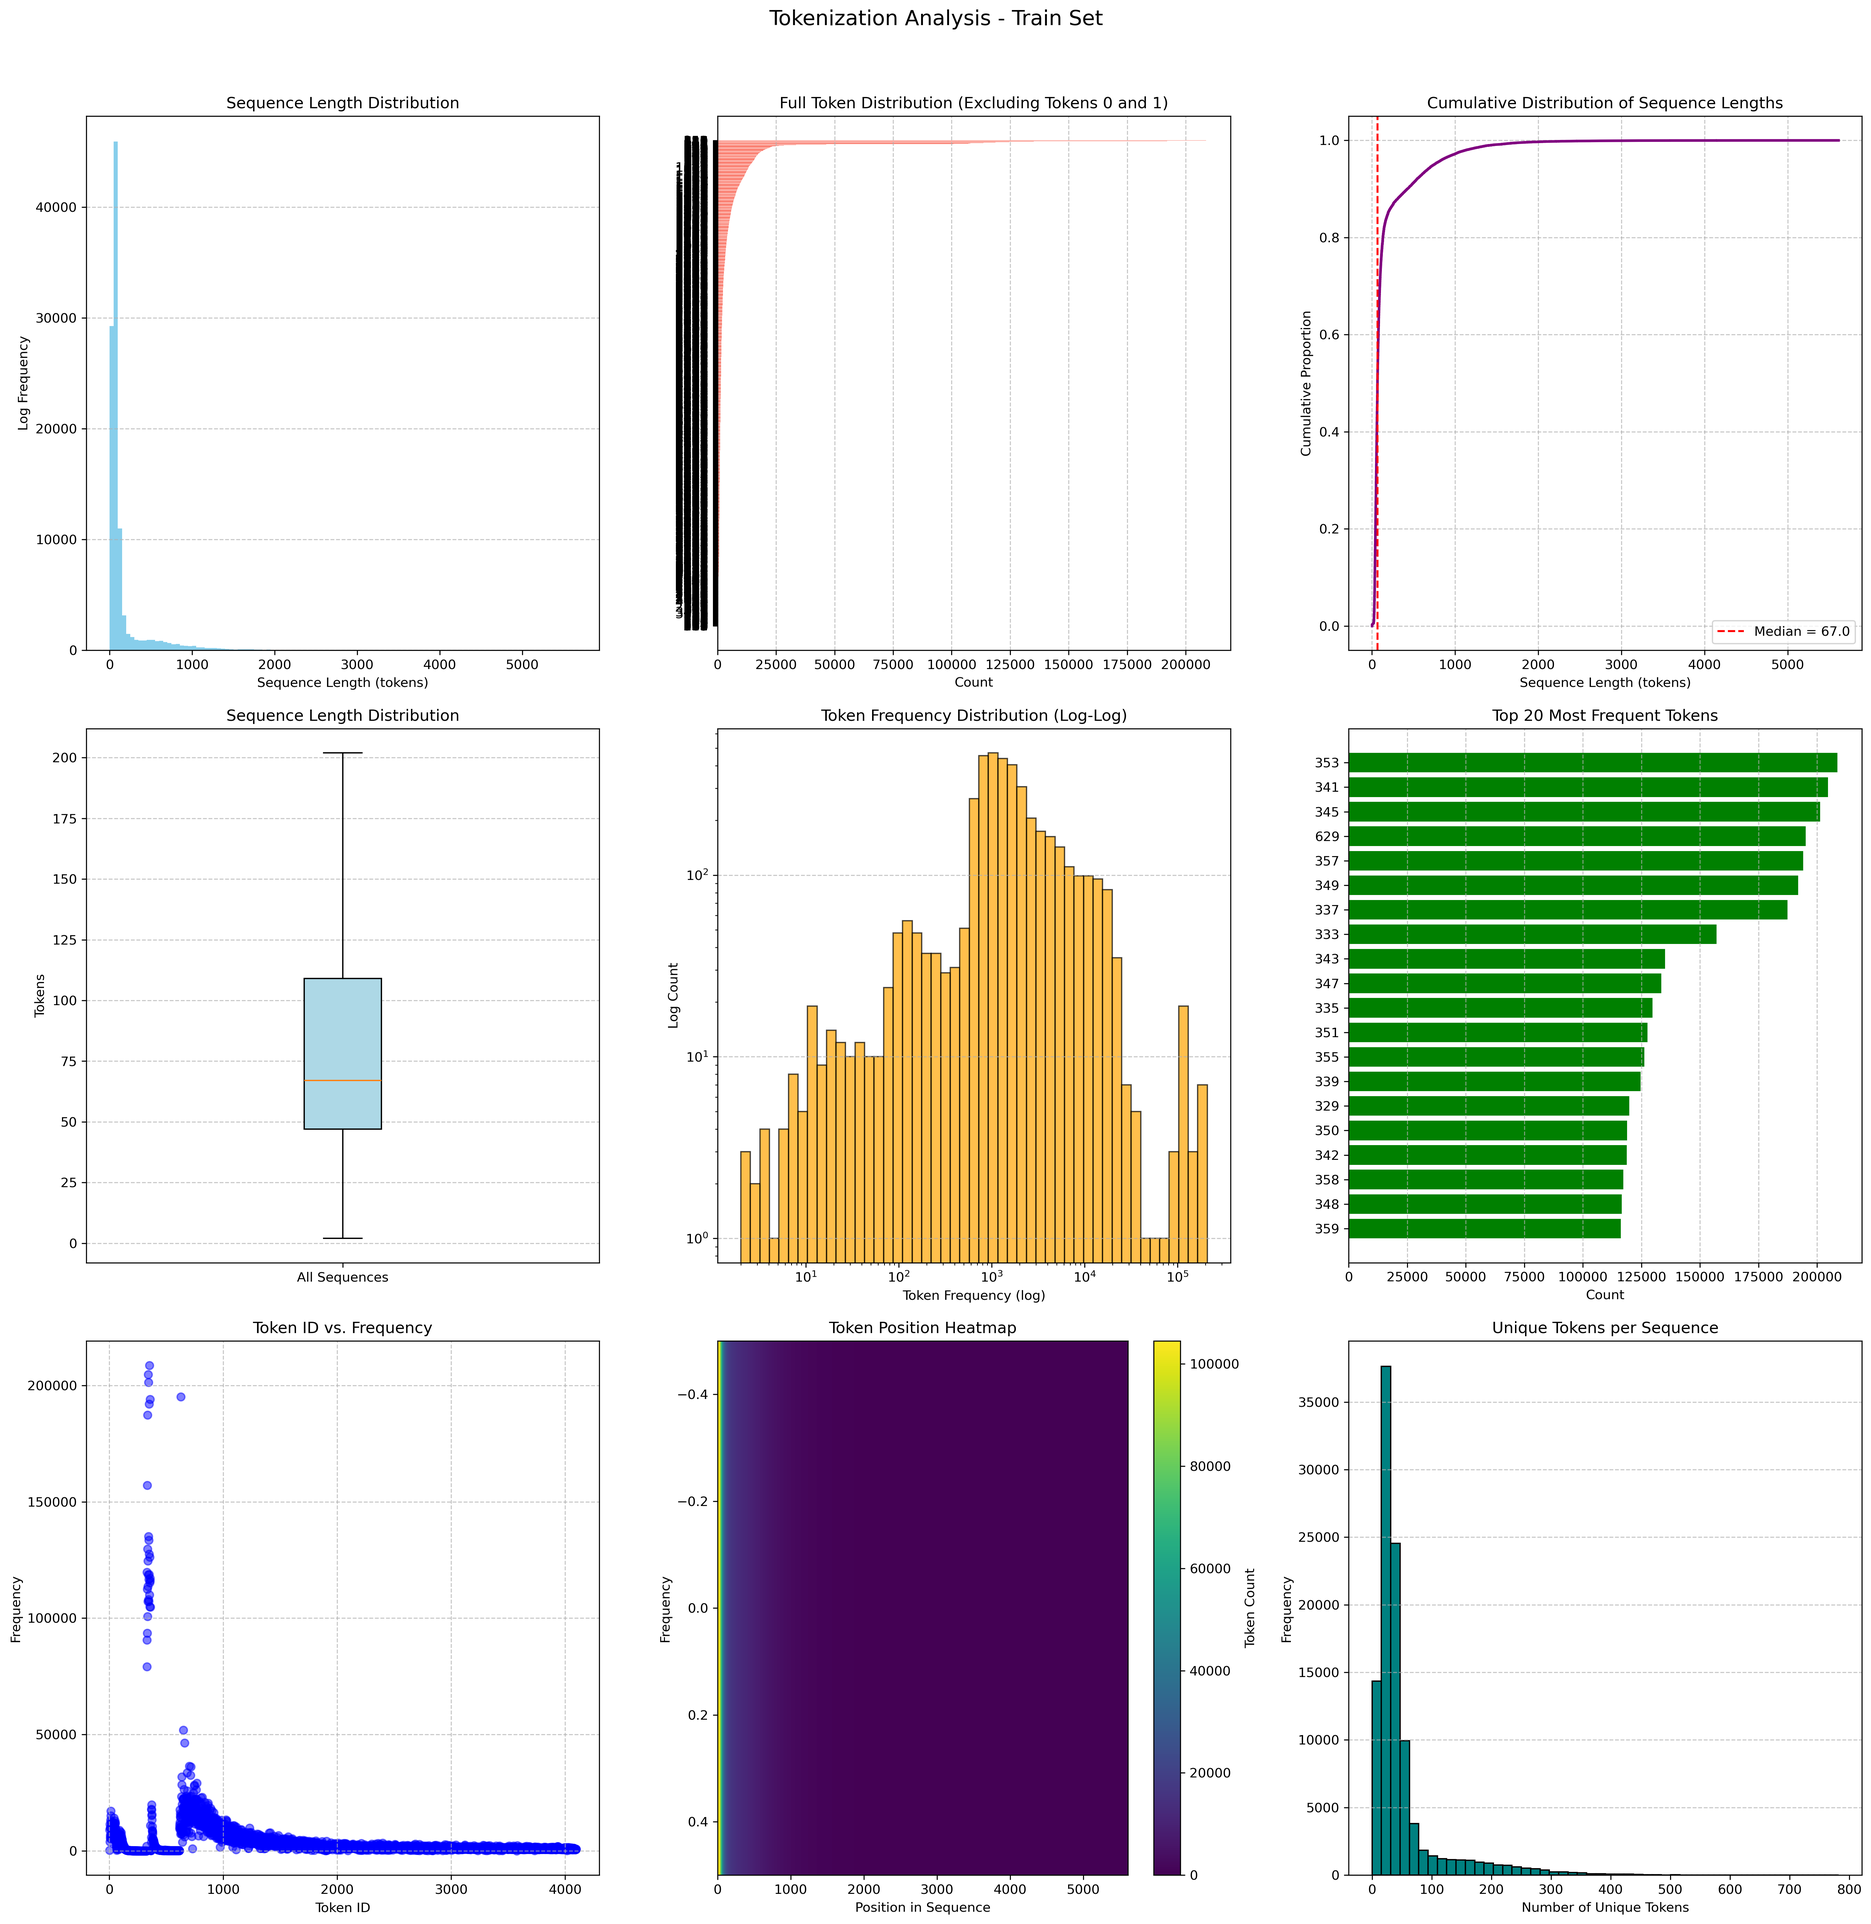
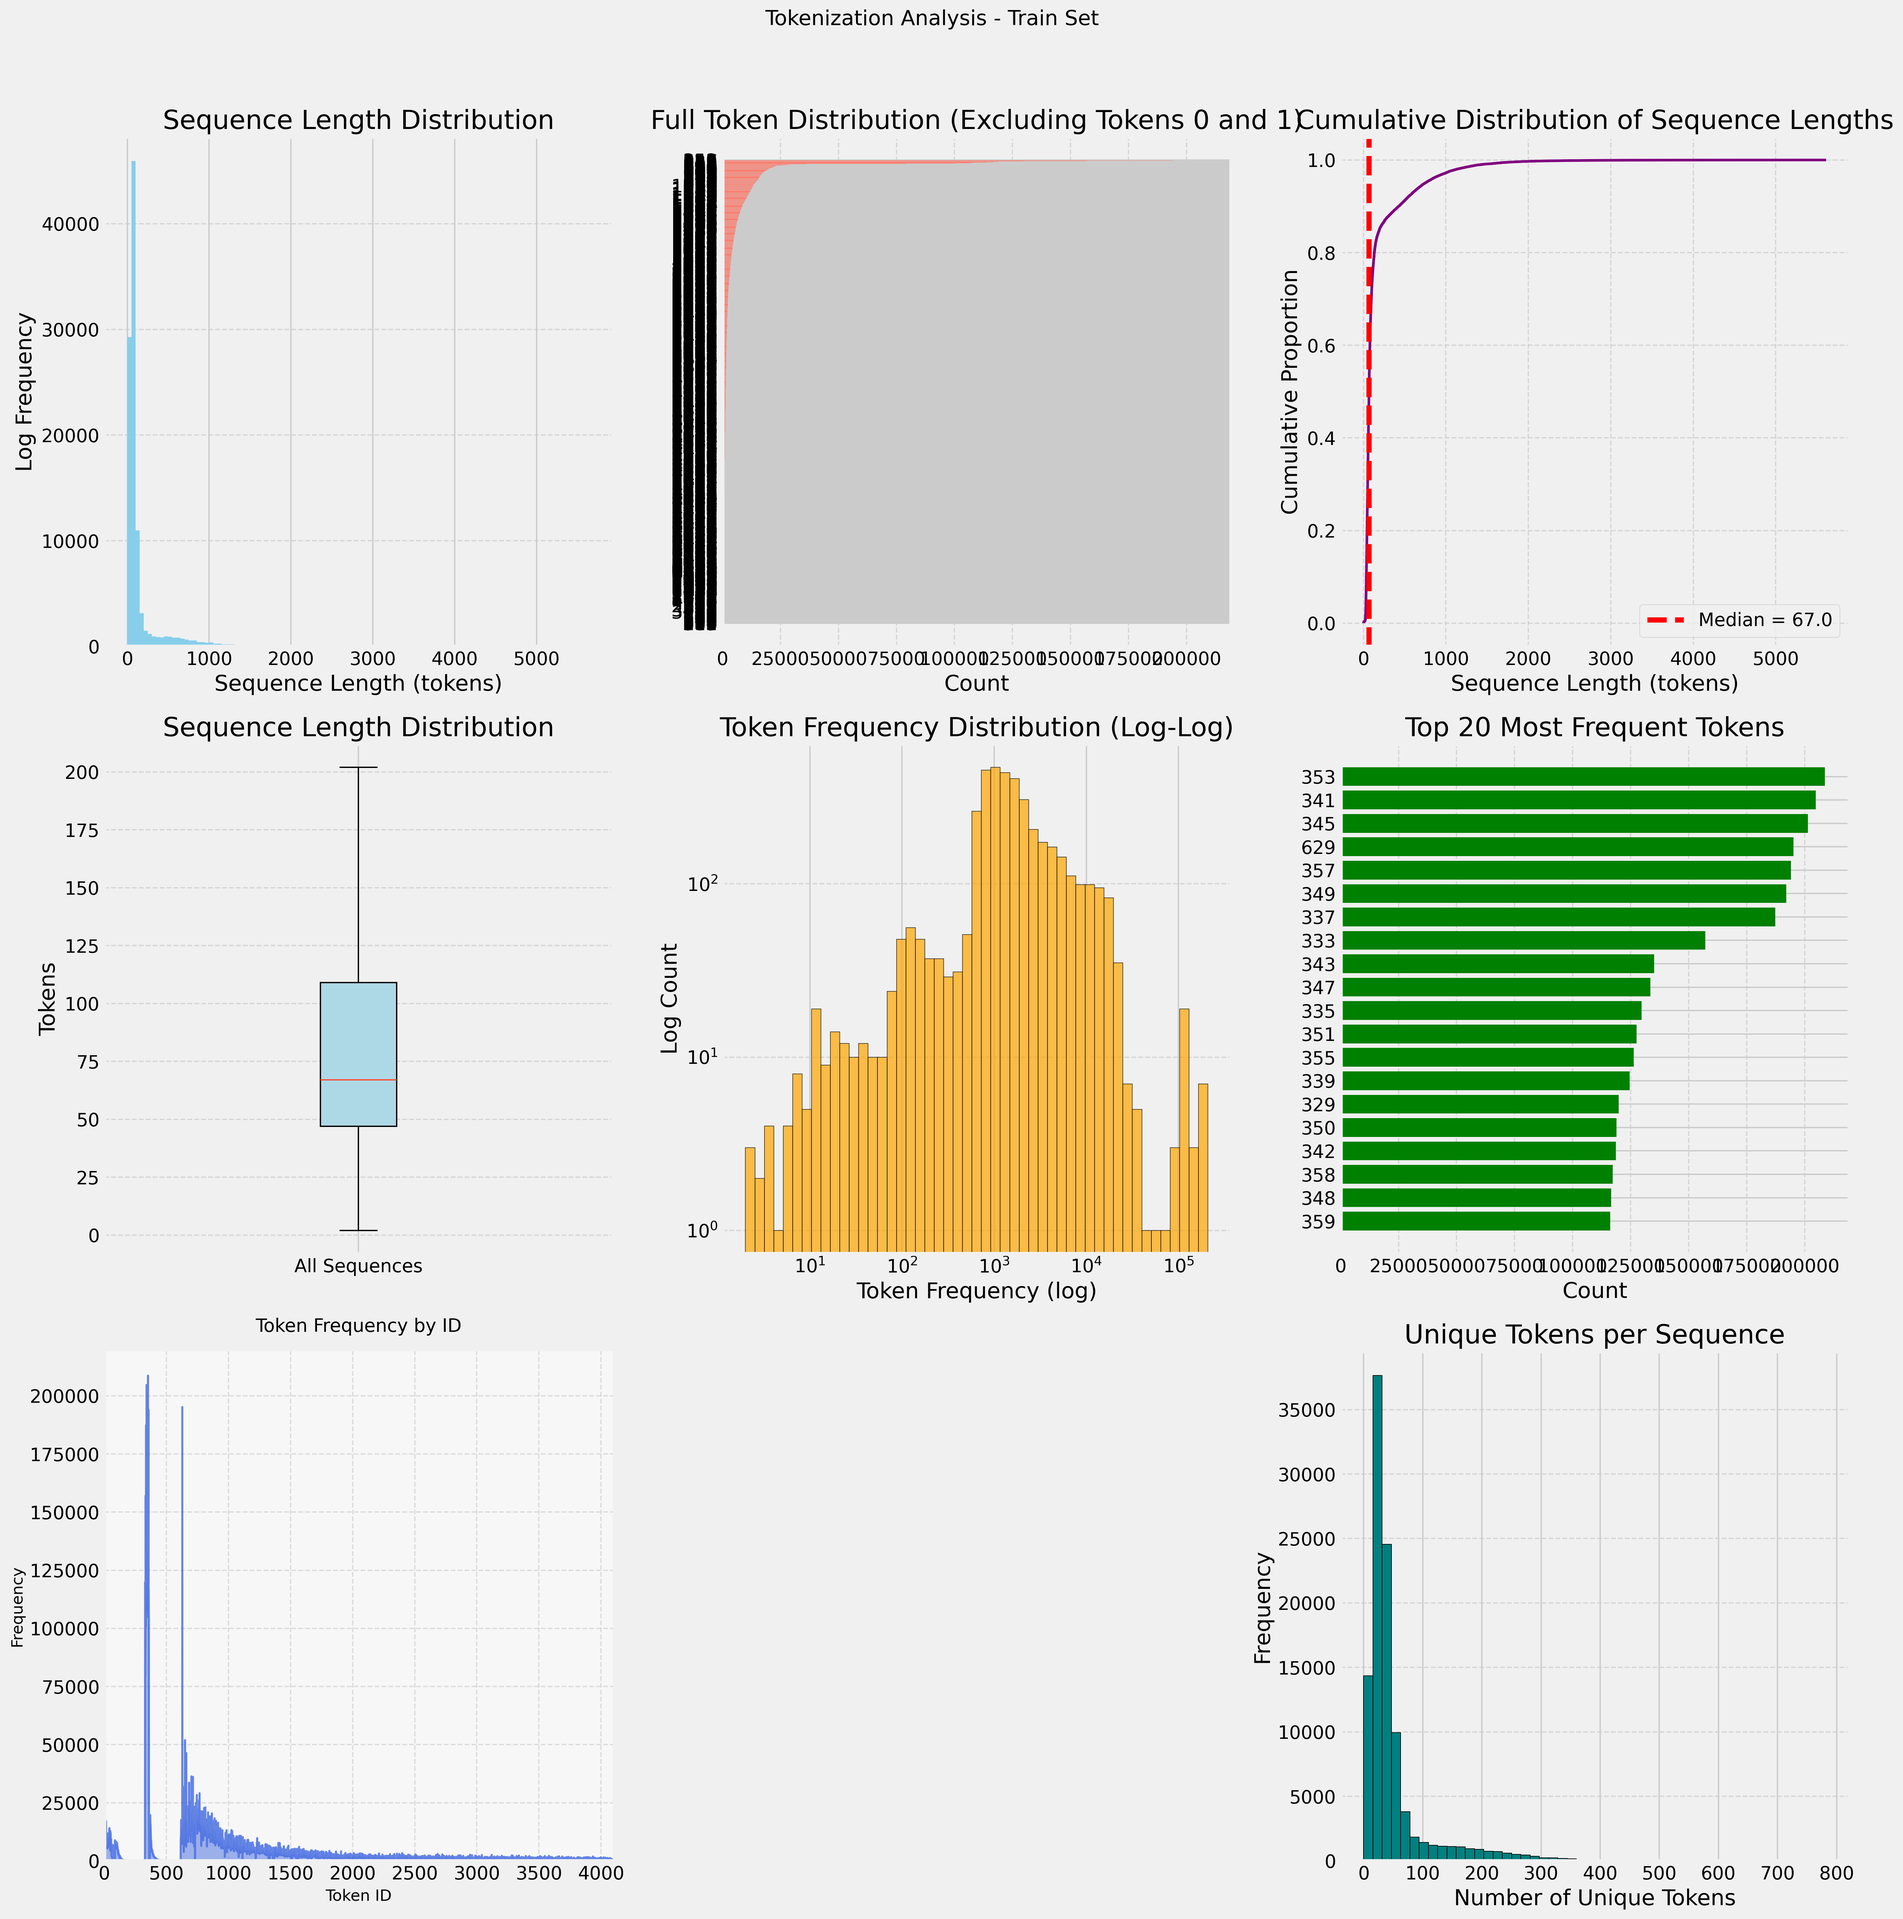
finished :)

diff --git a/CUPY/models/utils/tokenize_data_fast.py b/CUPY/models/utils/tokenize_data_fast.py
@@ -9,6 +9,9 @@ from icecream import ic
 from tabulate import tabulate
 import matplotlib.pyplot as plt
 import os
+import pandas as pd
+import matplotlib.ticker as ticker  # Import ticker for AutoMinorLocator
+plt.style.use('fivethirtyeight')
 
 import sys
 sys.path.insert(0, '/csghome/hpdc04/Transformer_Code/CUPY/models/GoePT/')
@@ -349,30 +352,69 @@ def visualize_tokenized_data_combined(token_array, pad_token_id, sos_token_id, e
     plt.grid(axis="x", linestyle="--", alpha=0.7)
 
     # Plot 7: Token Length vs. Frequency Scatter Plot
+    #plt.subplot(3, 3, 7)
+    #token_ids = [t[0] for t in all_tokens if t[0] not in {pad_token_id, sos_token_id, eos_token_id}]
+    #frequencies = [t[1] for t in all_tokens if t[0] not in {pad_token_id, sos_token_id, eos_token_id}]
+    #plt.scatter(token_ids, frequencies, color="blue", alpha=0.5)
+    #plt.title("Token ID vs. Frequency")
+    #plt.xlabel("Token ID")
+    #plt.ylabel("Frequency")
+    #plt.grid(linestyle="--", alpha=0.7)
+
+    # Plot 7: Token Length vs. Frequency (Elegant Version)
     plt.subplot(3, 3, 7)
+
+    # Filter data (as before)
     token_ids = [t[0] for t in all_tokens if t[0] not in {pad_token_id, sos_token_id, eos_token_id}]
     frequencies = [t[1] for t in all_tokens if t[0] not in {pad_token_id, sos_token_id, eos_token_id}]
-    plt.scatter(token_ids, frequencies, color="blue", alpha=0.5)
-    plt.title("Token ID vs. Frequency")
-    plt.xlabel("Token ID")
-    plt.ylabel("Frequency")
-    plt.grid(linestyle="--", alpha=0.7)
 
-    # Plot 8: Token Position Heatmap
-    plt.subplot(3, 3, 8)
-    max_length = max(lengths)
-    position_counts = np.zeros(max_length)
-    for seq in sequences:
-        if isinstance(seq, (int, np.integer)):  # If seq is a single integer, make it a list
-            seq = [seq]
-        for i, token in enumerate(seq):
-            if i < max_length:
-                position_counts[i] += 1
-    plt.imshow(position_counts.reshape(1, -1), cmap="viridis", aspect="auto")
-    plt.title("Token Position Heatmap")
-    plt.xlabel("Position in Sequence")
-    plt.ylabel("Frequency")
-    plt.colorbar(label="Token Count")
+    # Create dataframe for easy handling
+    df = pd.DataFrame({'token_id': token_ids, 'frequency': frequencies}).sort_values('token_id')
+
+    # Plot with a line (no markers)
+    plt.plot(df['token_id'], df['frequency'], 
+         color='royalblue', 
+         linewidth=1.5,
+         alpha=0.8)
+
+    # Set axis limits to match vocabulary size
+    #plt.xlim(0, 4095)  # Explicitly constrain to your vocab size
+    #plt.ylim(0, max(df['frequency']) * 1.1)  # Add 10% padding to y-axis
+
+    # Formatting
+    plt.title("Token Frequency by ID", fontsize=14, pad=15)
+    plt.xlabel("Token ID", fontsize=12)
+    plt.ylabel("Frequency", fontsize=12)
+    plt.grid(True, linestyle='--', alpha=0.6)
+
+    # Optional: Add minor gridlines for better readability
+    plt.gca().xaxis.set_minor_locator(ticker.MultipleLocator(500))  # Minor ticks every 500 tokens
+    plt.gca().yaxis.set_minor_locator(ticker.AutoMinorLocator())
+
+    # Improve clarity
+    plt.gca().set_facecolor('#f7f7f7')  # Light background
+    plt.gca().spines['top'].set_visible(False)
+    plt.gca().spines['right'].set_visible(False)
+    plt.tight_layout()
+
+
+    
+
+    # Plot 8: bar plot 
+    
+    # Use tiny bars (width=1 to prevent gaps)
+    plt.bar(df['token_id'], df['frequency'], 
+        width=1,  # No gaps between bars
+        color='royalblue', 
+        alpha=0.5, 
+        edgecolor='none')
+
+    plt.xlim(0, 4095)
+    plt.title("Token Frequency by ID", fontsize=14, pad=15)
+    plt.xlabel("Token ID", fontsize=12)
+    plt.ylabel("Frequency", fontsize=12)
+    plt.grid(True, linestyle='--', alpha=0.6, axis='y')  # Only horizontal grid
+    plt.tight_layout()
 
     # Plot 9: Token Diversity Analysis
     plt.subplot(3, 3, 9)
